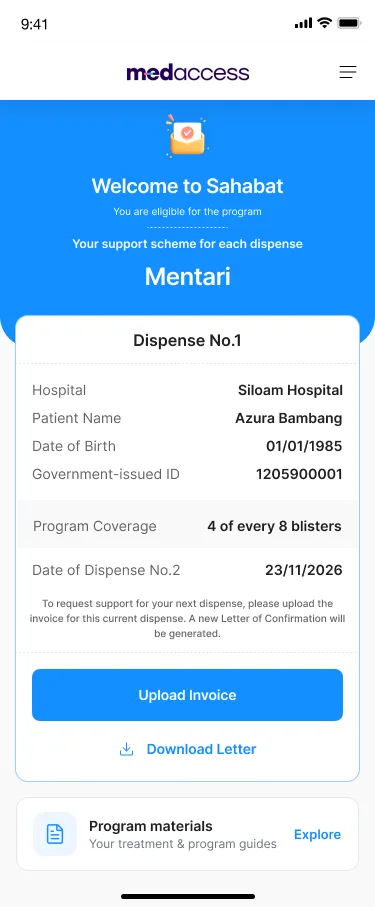
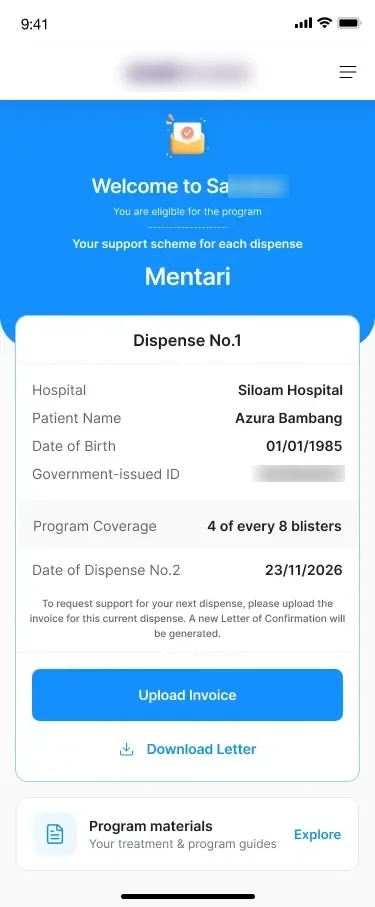
Healthcare case: move to /healthcare, blur brand, phone and hotline in screens
Claude-Session: https://claude.ai/code/session_01NYihFjnKFYCy9czoNRHpc6

diff --git a/healthcare/index.html b/healthcare/index.html
@@ -99,7 +99,7 @@
     <section id="appendix" data-sec="appendix" class="case-sec">
       <p class="sec-num">12 <span>appendix</span></p>
       <h2 class="sec-h">More detail, if you want it</h2>
-      <p style="margin: 0; max-width: 64ch; font-size: 16px; line-height: 1.75; color: #2E2E2A">Open any part below, or read the <a href="/medscore/healthcare-case-study.pdf" target="_blank" rel="noopener">full slide deck (PDF)</a>.</p><details style="border-top: 1.5px solid #181818; padding: 16px 0"><summary style="cursor: pointer; font-size: 17px; font-weight: 700">UI systems</summary><div style="display: flex; flex-direction: column; gap: 20px; margin-top: 16px"><p style="margin: 0; max-width: 64ch; font-size: 16px; line-height: 1.75; color: #2E2E2A">A patient design system and a mini UI system for the two portals.</p><figure style="margin: 0; display: flex; flex-direction: column; gap: 10px"><img src="/assets/img/cases/medscore/ds_patient.webp" alt="Patient webapp design system: type scale and colour palette" loading="lazy" style="display: block; width: 100%; height: auto; border-radius: 16px; border: 1px solid #E2DDCF"></figure><figure style="margin: 0; display: flex; flex-direction: column; gap: 10px"><img src="/assets/img/cases/medscore/ds_admin.webp" alt="Mini UI system for the admin portals" loading="lazy" style="display: block; width: 100%; height: auto; border-radius: 16px; border: 1px solid #E2DDCF"></figure></div></details><details style="border-top: 1.5px solid #181818; padding: 16px 0"><summary style="cursor: pointer; font-size: 17px; font-weight: 700">Team journeys and task flows</summary><div style="display: flex; flex-direction: column; gap: 20px; margin-top: 16px"><figure style="margin: 0; display: flex; flex-direction: column; gap: 10px"><img src="/assets/img/cases/medscore/pap_journey.webp" alt="Access team journey map" loading="lazy" style="display: block; width: 100%; height: auto; border-radius: 16px; border: 1px solid #E2DDCF"></figure><figure style="margin: 0; display: flex; flex-direction: column; gap: 10px"><img src="/assets/img/cases/medscore/psp_journey.webp" alt="Support team journey map" loading="lazy" style="display: block; width: 100%; height: auto; border-radius: 16px; border: 1px solid #E2DDCF"></figure><figure style="margin: 0; display: flex; flex-direction: column; gap: 10px"><img src="/assets/img/cases/medscore/flow2.webp" alt="Order handling task flow" loading="lazy" style="display: block; width: 100%; height: auto; border-radius: 16px; border: 1px solid #E2DDCF"></figure><figure style="margin: 0; display: flex; flex-direction: column; gap: 10px"><img src="/assets/img/cases/medscore/flow3.webp" alt="Receipt and hand-off task flow" loading="lazy" style="display: block; width: 100%; height: auto; border-radius: 16px; border: 1px solid #E2DDCF"></figure></div></details><details style="border-top: 1.5px solid #181818; padding: 16px 0"><summary style="cursor: pointer; font-size: 17px; font-weight: 700">Education hub</summary><div style="display: flex; flex-direction: column; gap: 20px; margin-top: 16px"><p style="margin: 0; max-width: 64ch; font-size: 16px; line-height: 1.75; color: #2E2E2A">Approved medical text, used word for word, made readable with hierarchy. Blurred for NDA.</p><div style="display: grid; grid-template-columns: repeat(3, minmax(0, 1fr)); gap: 16px"><figure style="margin: 0; display: flex; flex-direction: column; gap: 10px"><img src="/assets/img/cases/medscore/hub.webp" alt="Content hub" loading="lazy" style="display: block; width: 100%; height: auto; border-radius: 16px; border: 1px solid #E2DDCF"></figure><figure style="margin: 0; display: flex; flex-direction: column; gap: 10px"><img src="/assets/img/cases/medscore/article1.webp" alt="Article" loading="lazy" style="display: block; width: 100%; height: auto; border-radius: 16px; border: 1px solid #E2DDCF"></figure><figure style="margin: 0; display: flex; flex-direction: column; gap: 10px"><img src="/assets/img/cases/medscore/article2.webp" alt="Article" loading="lazy" style="display: block; width: 100%; height: auto; border-radius: 16px; border: 1px solid #E2DDCF"></figure></div></div></details><details style="border-top: 1.5px solid #181818; padding: 16px 0"><summary style="cursor: pointer; font-size: 17px; font-weight: 700">Program branding</summary><div style="display: flex; flex-direction: column; gap: 20px; margin-top: 16px"><figure style="margin: 0; display: flex; flex-direction: column; gap: 10px"><img src="/assets/img/cases/medscore/logos.webp" alt="Four logo directions for the program" loading="lazy" style="display: block; width: 100%; height: auto; border-radius: 16px; border: 1px solid #E2DDCF"></figure></div></details><details style="border-top: 1.5px solid #181818; padding: 16px 0"><summary style="cursor: pointer; font-size: 17px; font-weight: 700">Follow-ups and states</summary><div style="display: flex; flex-direction: column; gap: 20px; margin-top: 16px"><figure style="margin: 0; display: flex; flex-direction: column; gap: 10px"><img src="/assets/img/cases/medscore/followups.webp" alt="Automated follow-up tasks" loading="lazy" style="display: block; width: 100%; height: auto; border-radius: 16px; border: 1px solid #E2DDCF"></figure><figure style="margin: 0; display: flex; flex-direction: column; gap: 10px"><img src="/assets/img/cases/medscore/states.webp" alt="Visual state versus action state" loading="lazy" style="display: block; width: 100%; height: auto; border-radius: 16px; border: 1px solid #E2DDCF"></figure></div></details>
+      <p style="margin: 0; max-width: 64ch; font-size: 16px; line-height: 1.75; color: #2E2E2A">Open any part below, or read the <a href="/healthcare/healthcare-case-study.pdf" target="_blank" rel="noopener">full slide deck (PDF)</a>.</p><details style="border-top: 1.5px solid #181818; padding: 16px 0"><summary style="cursor: pointer; font-size: 17px; font-weight: 700">UI systems</summary><div style="display: flex; flex-direction: column; gap: 20px; margin-top: 16px"><p style="margin: 0; max-width: 64ch; font-size: 16px; line-height: 1.75; color: #2E2E2A">A patient design system and a mini UI system for the two portals.</p><figure style="margin: 0; display: flex; flex-direction: column; gap: 10px"><img src="/assets/img/cases/medscore/ds_patient.webp" alt="Patient webapp design system: type scale and colour palette" loading="lazy" style="display: block; width: 100%; height: auto; border-radius: 16px; border: 1px solid #E2DDCF"></figure><figure style="margin: 0; display: flex; flex-direction: column; gap: 10px"><img src="/assets/img/cases/medscore/ds_admin.webp" alt="Mini UI system for the admin portals" loading="lazy" style="display: block; width: 100%; height: auto; border-radius: 16px; border: 1px solid #E2DDCF"></figure></div></details><details style="border-top: 1.5px solid #181818; padding: 16px 0"><summary style="cursor: pointer; font-size: 17px; font-weight: 700">Team journeys and task flows</summary><div style="display: flex; flex-direction: column; gap: 20px; margin-top: 16px"><figure style="margin: 0; display: flex; flex-direction: column; gap: 10px"><img src="/assets/img/cases/medscore/pap_journey.webp" alt="Access team journey map" loading="lazy" style="display: block; width: 100%; height: auto; border-radius: 16px; border: 1px solid #E2DDCF"></figure><figure style="margin: 0; display: flex; flex-direction: column; gap: 10px"><img src="/assets/img/cases/medscore/psp_journey.webp" alt="Support team journey map" loading="lazy" style="display: block; width: 100%; height: auto; border-radius: 16px; border: 1px solid #E2DDCF"></figure><figure style="margin: 0; display: flex; flex-direction: column; gap: 10px"><img src="/assets/img/cases/medscore/flow2.webp" alt="Order handling task flow" loading="lazy" style="display: block; width: 100%; height: auto; border-radius: 16px; border: 1px solid #E2DDCF"></figure><figure style="margin: 0; display: flex; flex-direction: column; gap: 10px"><img src="/assets/img/cases/medscore/flow3.webp" alt="Receipt and hand-off task flow" loading="lazy" style="display: block; width: 100%; height: auto; border-radius: 16px; border: 1px solid #E2DDCF"></figure></div></details><details style="border-top: 1.5px solid #181818; padding: 16px 0"><summary style="cursor: pointer; font-size: 17px; font-weight: 700">Education hub</summary><div style="display: flex; flex-direction: column; gap: 20px; margin-top: 16px"><p style="margin: 0; max-width: 64ch; font-size: 16px; line-height: 1.75; color: #2E2E2A">Approved medical text, used word for word, made readable with hierarchy. Blurred for NDA.</p><div style="display: grid; grid-template-columns: repeat(3, minmax(0, 1fr)); gap: 16px"><figure style="margin: 0; display: flex; flex-direction: column; gap: 10px"><img src="/assets/img/cases/medscore/hub.webp" alt="Content hub" loading="lazy" style="display: block; width: 100%; height: auto; border-radius: 16px; border: 1px solid #E2DDCF"></figure><figure style="margin: 0; display: flex; flex-direction: column; gap: 10px"><img src="/assets/img/cases/medscore/article1.webp" alt="Article" loading="lazy" style="display: block; width: 100%; height: auto; border-radius: 16px; border: 1px solid #E2DDCF"></figure><figure style="margin: 0; display: flex; flex-direction: column; gap: 10px"><img src="/assets/img/cases/medscore/article2.webp" alt="Article" loading="lazy" style="display: block; width: 100%; height: auto; border-radius: 16px; border: 1px solid #E2DDCF"></figure></div></div></details><details style="border-top: 1.5px solid #181818; padding: 16px 0"><summary style="cursor: pointer; font-size: 17px; font-weight: 700">Program branding</summary><div style="display: flex; flex-direction: column; gap: 20px; margin-top: 16px"><figure style="margin: 0; display: flex; flex-direction: column; gap: 10px"><img src="/assets/img/cases/medscore/logos.webp" alt="Four logo directions for the program" loading="lazy" style="display: block; width: 100%; height: auto; border-radius: 16px; border: 1px solid #E2DDCF"></figure></div></details><details style="border-top: 1.5px solid #181818; padding: 16px 0"><summary style="cursor: pointer; font-size: 17px; font-weight: 700">Follow-ups and states</summary><div style="display: flex; flex-direction: column; gap: 20px; margin-top: 16px"><figure style="margin: 0; display: flex; flex-direction: column; gap: 10px"><img src="/assets/img/cases/medscore/followups.webp" alt="Automated follow-up tasks" loading="lazy" style="display: block; width: 100%; height: auto; border-radius: 16px; border: 1px solid #E2DDCF"></figure><figure style="margin: 0; display: flex; flex-direction: column; gap: 10px"><img src="/assets/img/cases/medscore/states.webp" alt="Visual state versus action state" loading="lazy" style="display: block; width: 100%; height: auto; border-radius: 16px; border: 1px solid #E2DDCF"></figure></div></details>
     </section>
   <footer class="case-end">
     <div>

diff --git a/index.html b/index.html
@@ -145,7 +145,7 @@
       <h3>Clinical paperwork, but kinder</h3>
       <p class="desc">A patient flow from login and ID check to application status and proof of treatment.</p>
       <div class="tags"><span class="tag">healthcare</span><span class="tag">web design</span></div>
-      <a class="more" href="/medscore/">read the case study</a>
+      <a class="more" href="/healthcare/">read the case study</a>
     </article>
 
     <section id="me" class="panel p-me" aria-label="About me">
